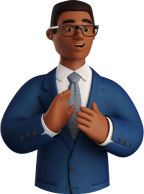
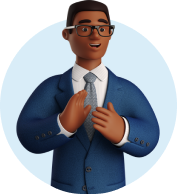
Dashboard 2 / 4

diff --git a/resources/views/Page/welcome.blade.php b/resources/views/Page/welcome.blade.php
@@ -1,50 +1,76 @@
 <x-layout>
-    <x-slot:title>{{ $title }}</x-slot:title>
-    {{-- Section 1 --}}
-    <section class="bg-blue-400 p-5 flex items-center justify-between lg:justify-around text-white">
-        <div class="flex flex-col items-center justify-center text-center">
-            <h1 class="text-4xl lg:text-8xl font-bold">1,2k</h1>
-            <p class="text-sm lg:text-base w-full">User Terdaftar</p>
-        </div>
-        <div class="flex flex-col items-center justify-center text-center">
-            <h1 class="text-4xl lg:text-8xl font-bold">1,2k</h1>
-            <p class="text-sm lg:text-base w-full">Organisasi Tersedia</p>
-        </div>
-        <div class="flex flex-col items-center justify-center text-center">
-            <h1 class="text-4xl lg:text-8xl font-bold">1,2k</h1>
-            <p class="text-sm lg:text-base w-full">Webinar Tersedia</p>
-        </div>
-    </section>
+    <section class="w-full flex flex-col items-center">
+        <x-slot:title>{{ $title }}</x-slot:title>
+        {{-- Section 1 --}}
+        <section class="bg-blue-400 w-full p-5 flex items-center justify-between lg:justify-around text-white">
+            <div class="flex flex-col items-center justify-center text-center">
+                <h1 class="text-4xl lg:text-8xl font-bold">1,2k</h1>
+                <p class="text-sm lg:text-base w-full">User Terdaftar</p>
+            </div>
+            <div class="flex flex-col items-center justify-center text-center">
+                <h1 class="text-4xl lg:text-8xl font-bold">1,2k</h1>
+                <p class="text-sm lg:text-base w-full">Organisasi Tersedia</p>
+            </div>
+            <div class="flex flex-col items-center justify-center text-center">
+                <h1 class="text-4xl lg:text-8xl font-bold">1,2k</h1>
+                <p class="text-sm lg:text-base w-full">Webinar Tersedia</p>
+            </div>
+        </section>
 
-    {{-- Section 2 --}}
-    <section class="p-10 700 w-full">
-        <div
-            class="flex flex-col sm:flex-wrap sm:flex-row lg:flex-row lg:flex-wrap justify-center gap-4 items-center mx-auto">
-            <x-benefit-card></x-benefit-card>
-            <x-benefit-card></x-benefit-card>
-            <x-benefit-card></x-benefit-card>
-            <x-benefit-card></x-benefit-card>
-        </div>
-    </section>
+        {{-- Section 2 --}}
+        <section class="p-5 lg:p-10 lg:pt-20 w-full">
+            <div class=" grid gap-5 grid-cols-2 md:grid-cols-2 lg:grid-cols-4 w-full sm:w-3/4 mx-auto">
+                <x-benefit-card></x-benefit-card>
+                <x-benefit-card></x-benefit-card>
+                <x-benefit-card></x-benefit-card>
+                <x-benefit-card></x-benefit-card>
+            </div>
+        </section>
 
-    {{-- Section 3 --}}
-    <section class="">
-        <div class="mx-auto max-w-7xl justify-center py-6 sm:px-6 flex flex-wrap gap-12">
-            <div class="flex items-center justify-around">
-                <div class="w-[80%]">
-                    <h1>Organisasi</h1>
+        {{-- Section 3 --}}
+        <section class="p-5 lg:p-10 w-full">
+
+            <div class="flex lg:flex-row flex-col w-full py-8 items-center justify-around">
+                <div class="w-full lg:w-[43%] lg:max-w-screen-sm">
+                    <h1 class="py-8 font-bold text-5xl">Organisasi</h1>
                     <p>Tersedia berbagai macam pilihan informasi yang tersedia didalamnya mengenai Acara, Event, dan
-                        Organisasi
-                        di dunia kampus Telkom University.</p>
+                        Organisasi di dunia kampus Telkom University.</p>
                 </div>
                 <a href="">Lihat Semua &raquo;</a>
+
             </div>
-            @foreach ($organ as $organisasi)
-                {{-- Mengambil Data Organisasi --}}
-                <x-card image="{{ 'assets/images/Banner.png' }}" title="{{ $organisasi['nama_organisasi'] }}"
-                    desc="{{ $organisasi['deskripsi'] }}" slug="{{ $organisasi['slug'] }}" />
-            @endforeach
-        </div>
+
+            {{-- Mengambil Data Organisasi --}}
+            <div class=" grid gap-5 grid-cols-1  md:grid-cols-2 lg:grid-cols-3 sm:w-3/4 mx-auto">
+                @foreach ($organ as $organisasi)
+                    <x-card image="{{ 'assets/images/Banner.png' }}" title="{{ $organisasi['nama_organisasi'] }}"
+                        desc="{{ $organisasi['deskripsi'] }}" slug="{{ $organisasi['slug'] }}" />
+                @endforeach
+            </div>
+        </section>
+
+        {{-- Section 4 --}}
+        <section class="p-5 lg:p-10 w-full">
+
+            <div class="flex lg:flex-row flex-col w-full py-8 items-center justify-around">
+                <div class="w-full lg:w-[43%] lg:max-w-screen-sm">
+                    <h1 class="py-8 font-bold text-5xl">Seminar</h1>
+                    <p>Tersedia berbagai macam pilihan informasi yang tersedia didalamnya mengenai Acara, Event, dan
+                        Organisasi di dunia kampus Telkom University.</p>
+                </div>
+                <a href="">Lihat Semua &raquo;</a>
+
+            </div>
+
+            {{-- Mengambil Data Organisasi --}}
+            <div class=" grid gap-5 grid-cols-1  md:grid-cols-2 lg:grid-cols-3 sm:w-3/4 mx-auto">
+                @foreach ($organ as $organisasi)
+                    <x-card image="{{ 'assets/images/Banner.png' }}" title="{{ $organisasi['nama_organisasi'] }}"
+                        desc="{{ $organisasi['deskripsi'] }}" slug="{{ $organisasi['slug'] }}" />
+                @endforeach
+            </div>
+        </section>
+
     </section>
 
 </x-layout>

diff --git a/resources/views/components/benefit-card.blade.php b/resources/views/components/benefit-card.blade.php
@@ -1,10 +1,7 @@
-<div class="bg-white dark:bg-gray-800 w-5/6 md:w-56 lg:w-64 p-7 shadow-lg rounded-md flex flex-col items-center">
+<div class="bg-white dark:bg-gray-800 max-w-96 p-7 shadow-lg rounded-md flex flex-col items-center">
     <div class="flex relative items-center justify-center ">
-        <img src="{{ asset('assets/images/pemateri.png') }}" alt="" class="relative z-20">
-        <div class="rounded-full bg-blue-300 absolute dark:bg-blue-950 z-10 lg:w-[200px] lg:h-[200px]">
-
-        </div>
+        <img src="{{ asset('assets/images/pemateri.png') }}" alt="benefit.png" class="relative z-20">
     </div>
     <br>
-    <h1 class="dark:text-white text-black text-lg font-bold">Pemateri Sertifikasi</h1>
+    <h1 class="dark:text-white text-black text-sm lg:text-lg font-bold text-center">Pemateri Sertifikasi</h1>
 </div>

diff --git a/resources/views/Page/organisasi.blade.php b/resources/views/Page/organisasi.blade.php
@@ -2,7 +2,7 @@
     <x-slot:title>{{ $title }}</x-slot:title>
     <section class="px-4 py-6 sm:px-6 lg:px-8 max-w-full">
         <div class="justify-center flex flex-col items-center">
-            <form class="w-[73%] mx-auto" method="GET" action="/search">
+            <form class="w-[86%] lg:w-[73%] mx-auto" method="GET" action="/search">
                 <label for="default-search"
                     class="mb-2 text-sm font-medium text-gray-900 sr-only dark:text-white">Search</label>
                 <div class="relative">

diff --git a/resources/views/components/card.blade.php b/resources/views/components/card.blade.php
@@ -1,7 +1,7 @@
 @props(['image', 'title', 'desc', 'slug'])
 
 <div
-    class="max-w-80 bg-white border border-gray-200 rounded-lg shadow-lg dark:bg-gray-800 dark:shadow-sm dark:shadow-slate-500 dark:border-gray-700">
+    class="max-w-96 bg-white border border-gray-200 rounded-lg shadow-lg dark:bg-gray-800 dark:shadow-sm dark:shadow-slate-500 dark:border-gray-700">
     <a href="#">
         <img class="rounded-t-lg" src="{{ asset($image) }}" alt="" />
     </a>
